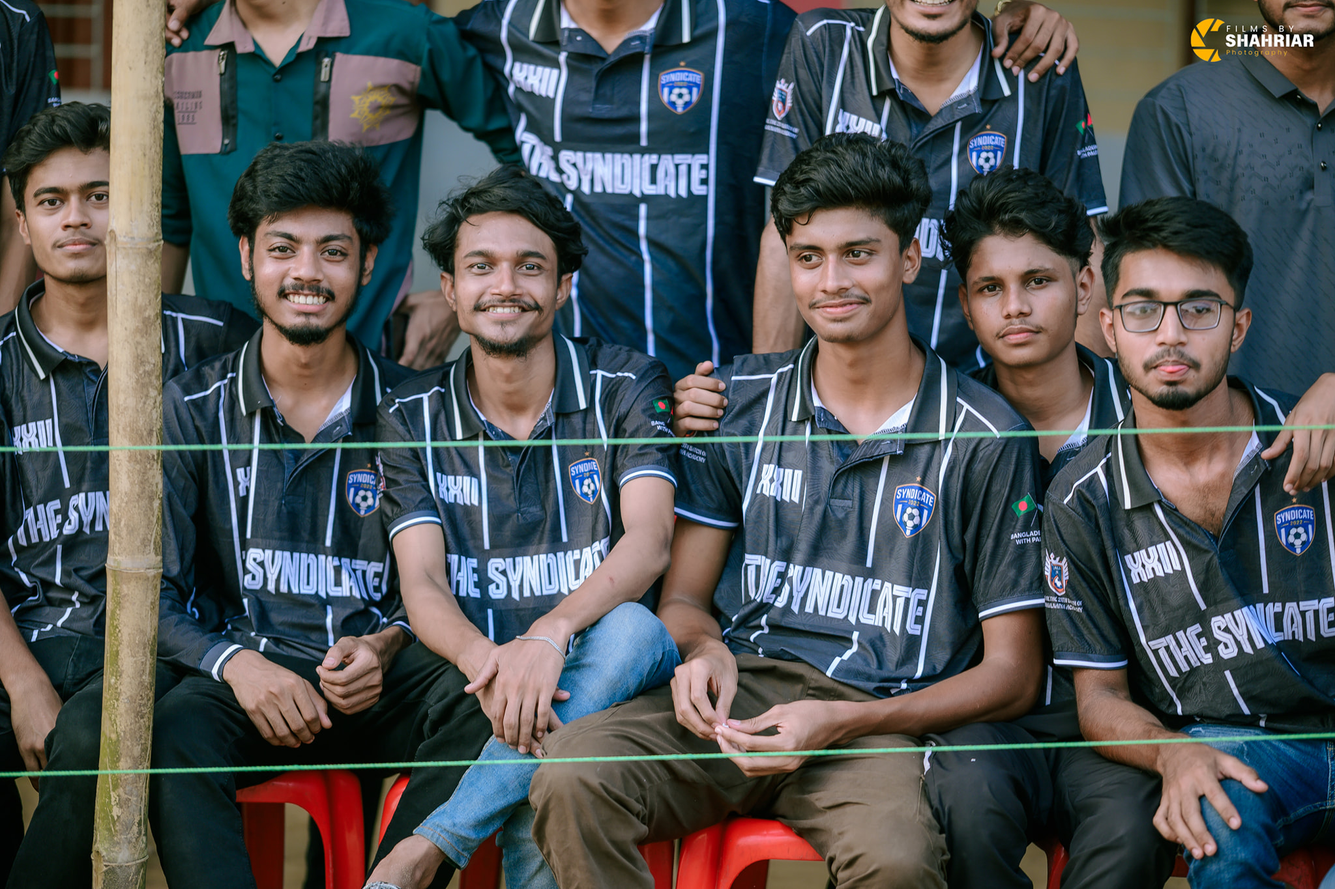
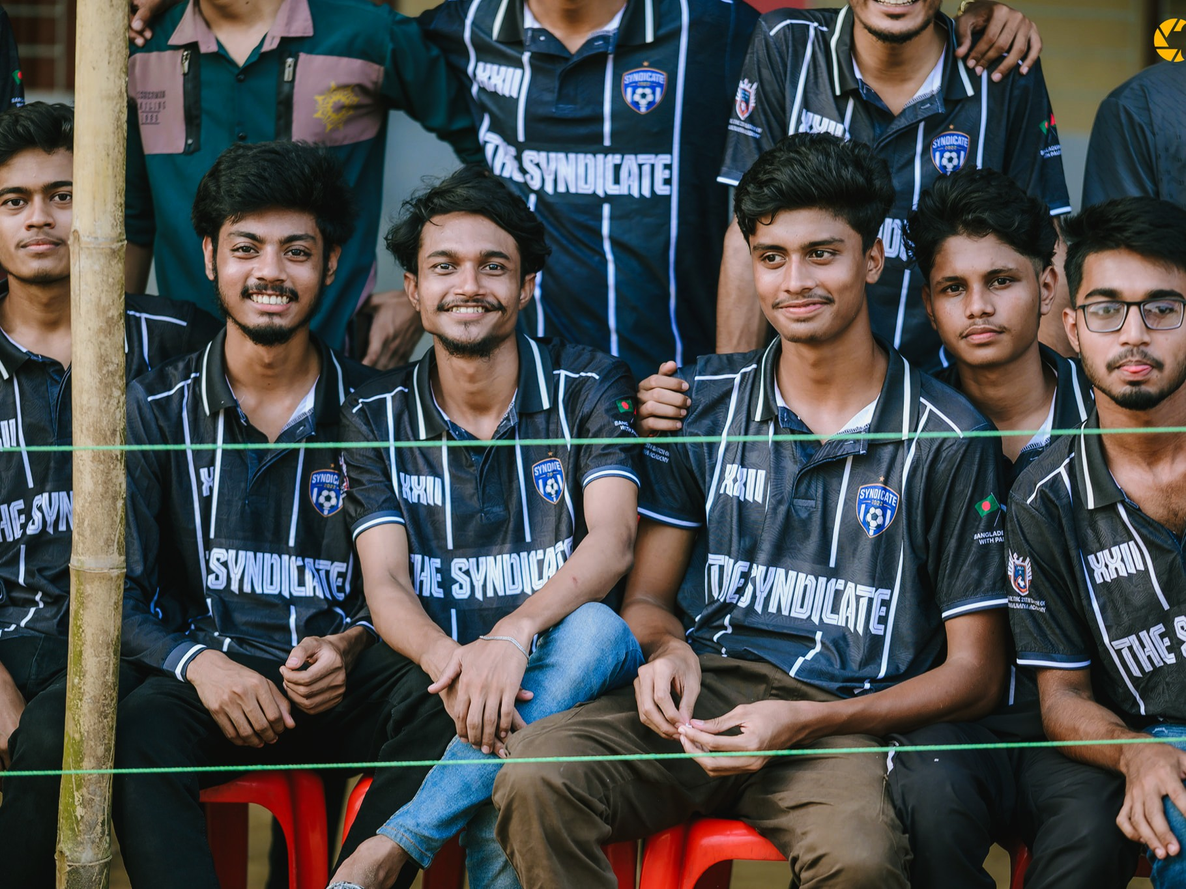
update photo

diff --git a/index.html b/index.html
@@ -719,42 +719,42 @@
           <div class="grid grid-cols-1 sm:grid-cols-2 lg:grid-cols-3 gap-4">
 
             <div class="gallery-item rounded-xl overflow-hidden img-hover aspect-[4/3]">
-              <img src="https://placehold.co/400x300/000000/FF0000"
+              <img src="img/g/1photo.jpg"
                   alt="Syndicate 22 football match action shot"
                   class="w-full h-full object-cover"
                   loading="lazy" />
             </div>
 
             <div class="gallery-item rounded-xl overflow-hidden img-hover aspect-[4/3]">
-              <img src="https://placehold.co/400x300/0A0A0A/FF0000"
+              <img src="img/g/2photo.jpg"
                   alt="Syndicate 22 team training session"
                   class="w-full h-full object-cover"
                   loading="lazy" />
             </div>
 
             <div class="gallery-item rounded-xl overflow-hidden img-hover aspect-[4/3]">
-              <img src="https://placehold.co/400x300/111111/FF0000"
+              <img src="img/g/3photo.jpg"
                   alt="Syndicate 22 victory celebration"
                   class="w-full h-full object-cover"
                   loading="lazy" />
             </div>
 
             <div class="gallery-item rounded-xl overflow-hidden img-hover aspect-[4/3]">
-              <img src="https://placehold.co/400x300/0A0A0A/FF0000"
+              <img src="img/g/4photo.jpg"
                   alt="Syndicate 22 full team lineup on the pitch"
                   class="w-full h-full object-cover"
                   loading="lazy" />
             </div>
 
             <div class="gallery-item rounded-xl overflow-hidden img-hover aspect-[4/3]">
-              <img src="https://placehold.co/400x300/111111/FF0000"
+              <img src="img/g/5photo.jpg"
                   alt="Syndicate 22 fans cheering at the stadium"
                   class="w-full h-full object-cover"
                   loading="lazy" />
             </div>
 
             <div class="gallery-item rounded-xl overflow-hidden img-hover aspect-[4/3]">
-              <img src="https://placehold.co/400x300/0F0F0F/FF0000"
+              <img src="img/g/6photo.jpg"
                   alt="Syndicate 22 trophy ceremony"
                   class="w-full h-full object-cover"
                   loading="lazy" />
